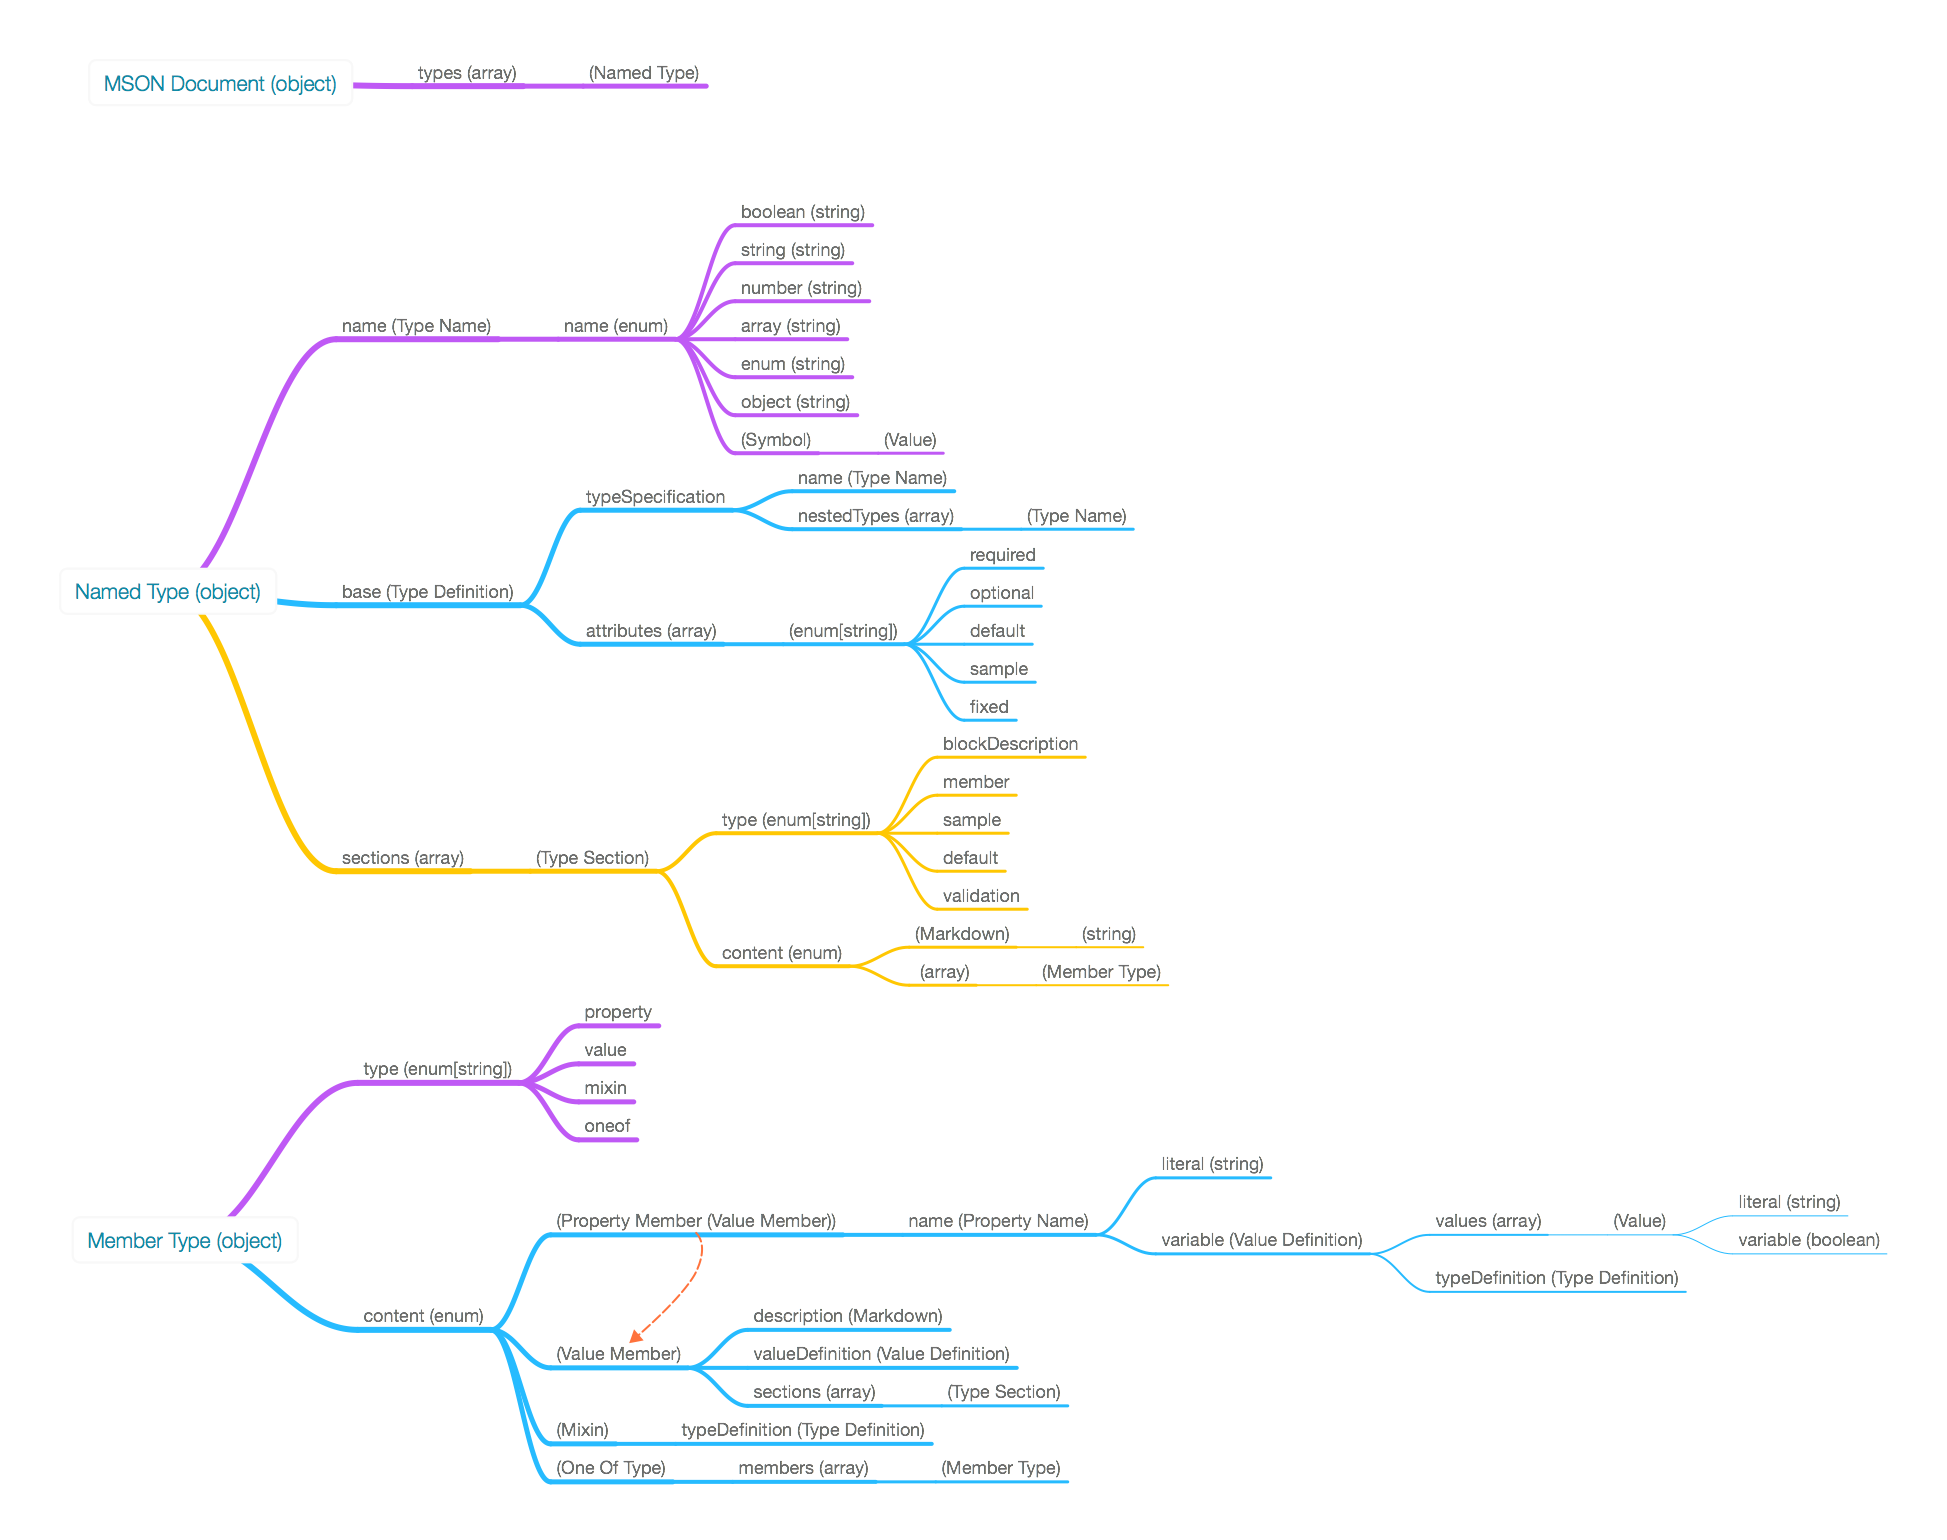
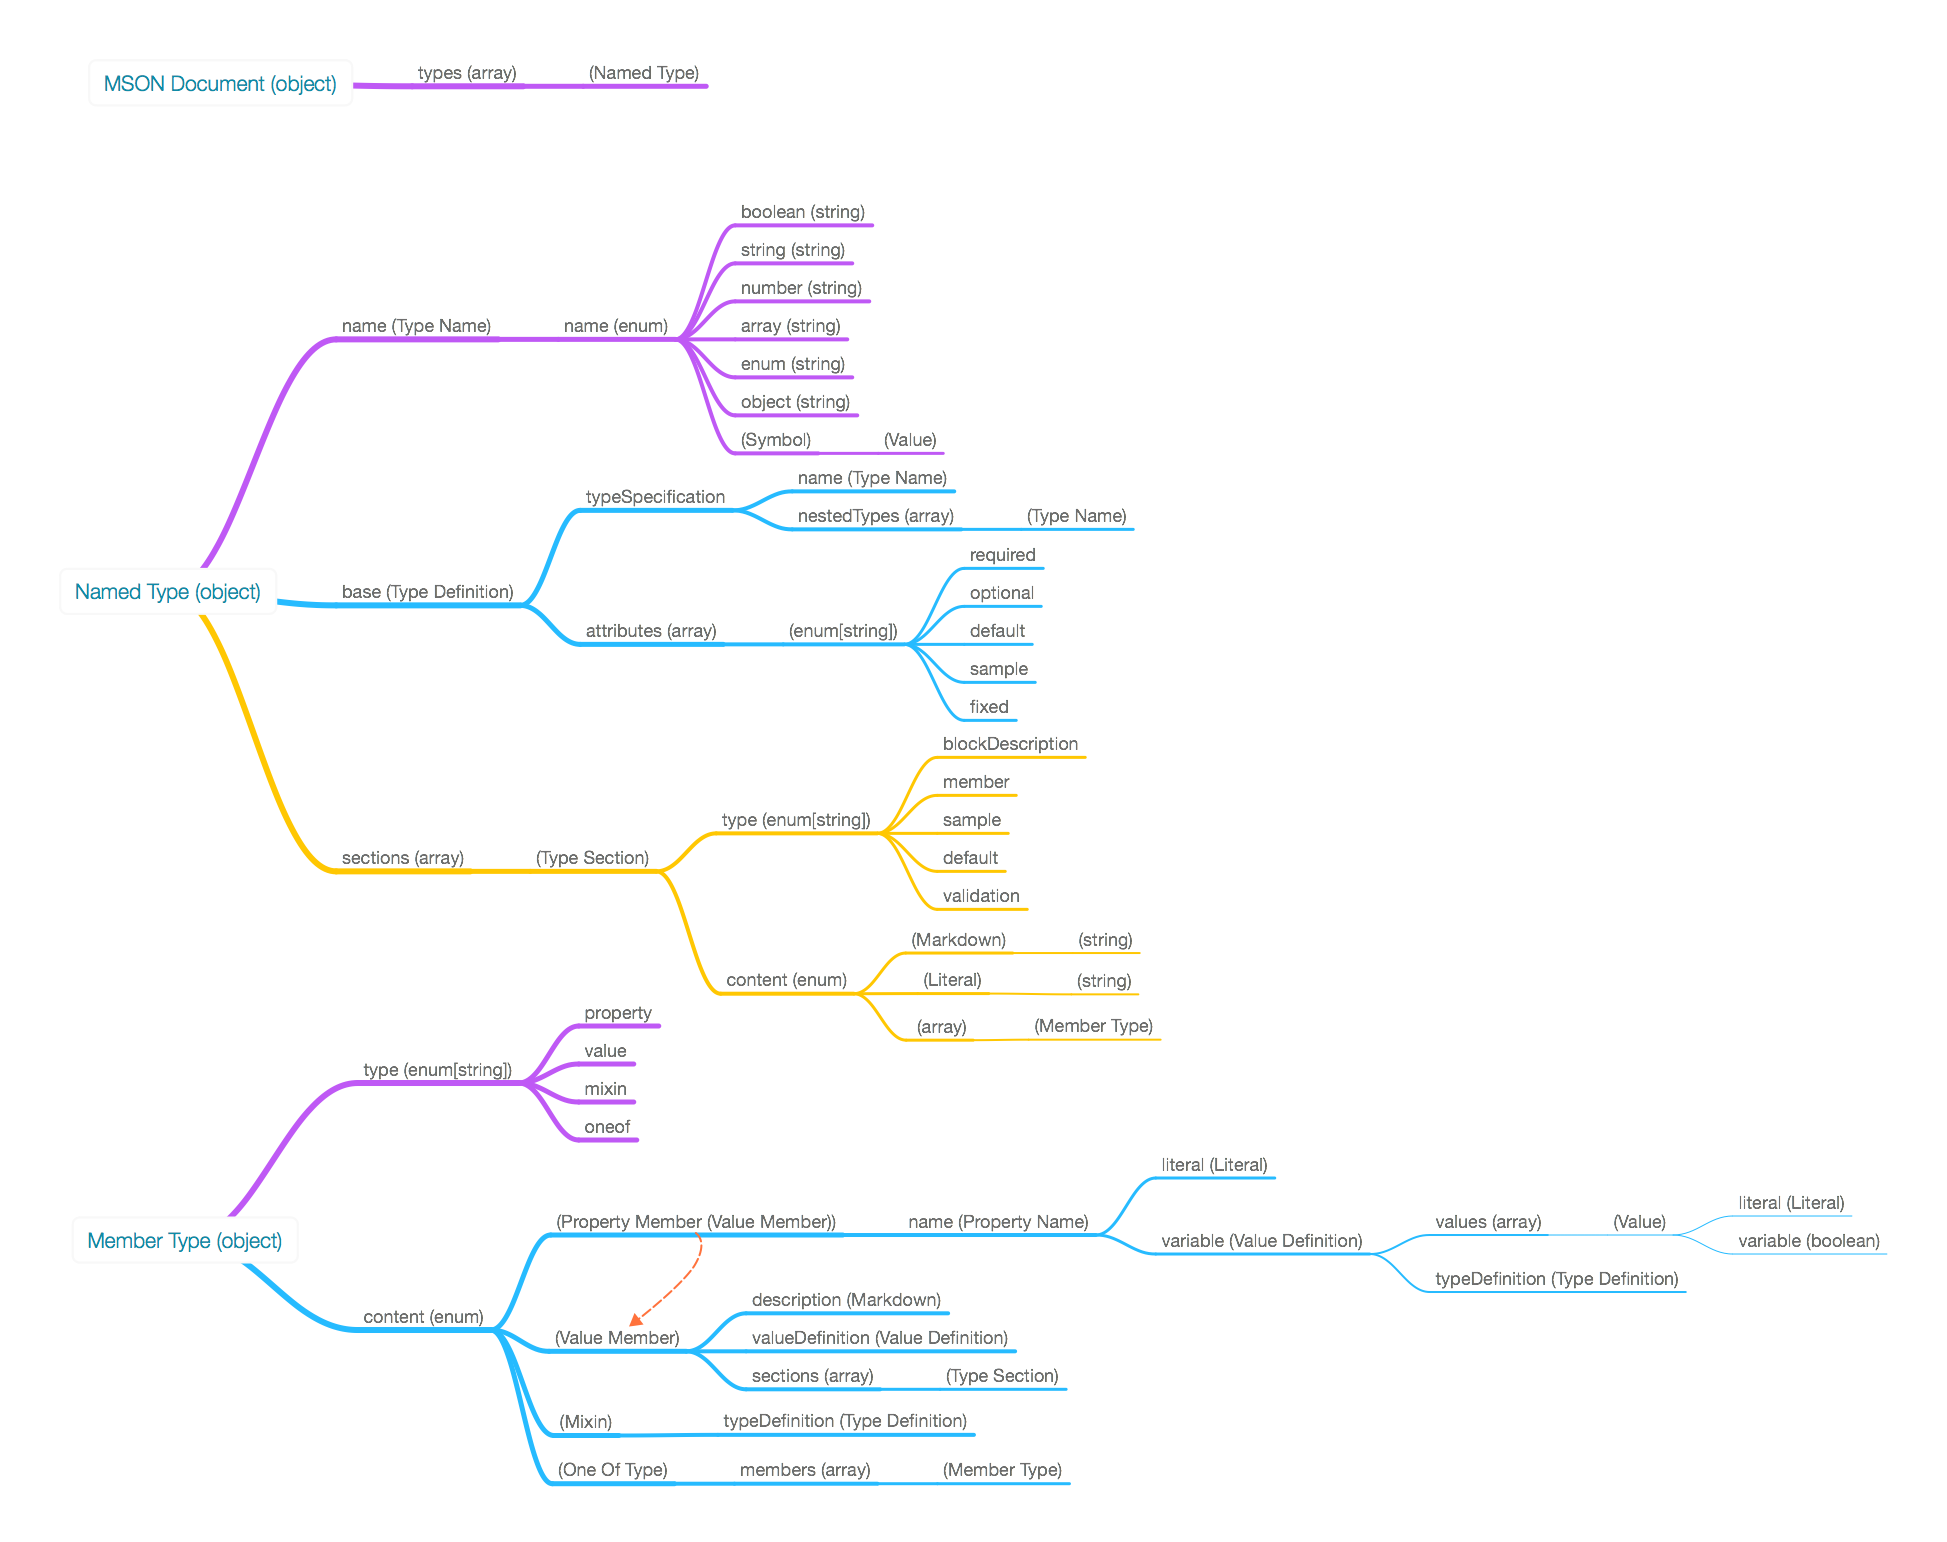
Added literal to type section content

diff --git a/README.md b/README.md
@@ -54,7 +54,7 @@ Base or named type's name.
 Type symbol (identifier).
 
 #### Properties
-- `literal` (string) - Name of the symbol
+- `literal` ([Literal][]) - Name of the symbol
 - `variable`: `false` (boolean, default) - Boolean flag to denote [Variable Type Name][], `true` for variable type name, `false` otherwise
 
 ### Type Definition
@@ -86,6 +86,7 @@ Section of a type. The section can be any of the [Type Sections][] as described 
 
 - `content` (enum) - Content of the section based on its type
     - ([Markdown][]) - Markdown formatted content of the section, applicable for `blockDescription` type only
+    - ([Literal][]) - Literal value for a non-structure base type, applicable for `sample` or `default` types only
     - (array[[Member Type][]]) - Member types, applicable for `member`, `sample` or `default` types only
 
 ### Member Type
@@ -115,7 +116,7 @@ Name of a property member.
 
 #### Properties
 - One Of
-    - `literal` (string) - Literal name of the property
+    - `literal` ([Literal][]) - Literal name of the property
     - `variable` ([Value Definition][]) - Variable name of the property
 
 ### Value Member
@@ -151,11 +152,14 @@ Value definition of a type instance.
 Sample or actual value of a type instance
 
 #### Properties 
-- `literal` (string) - The literal value
+- `literal` ([Literal][]) - The literal value
 - `variable`: `false` (boolean, default) - `true` to denote variable value, `false` otherwise
 
 ### Markdown (string)
 Markdown formatted plain text string.
+
+### Literal (string)
+Plain text string
 
 ---
 
